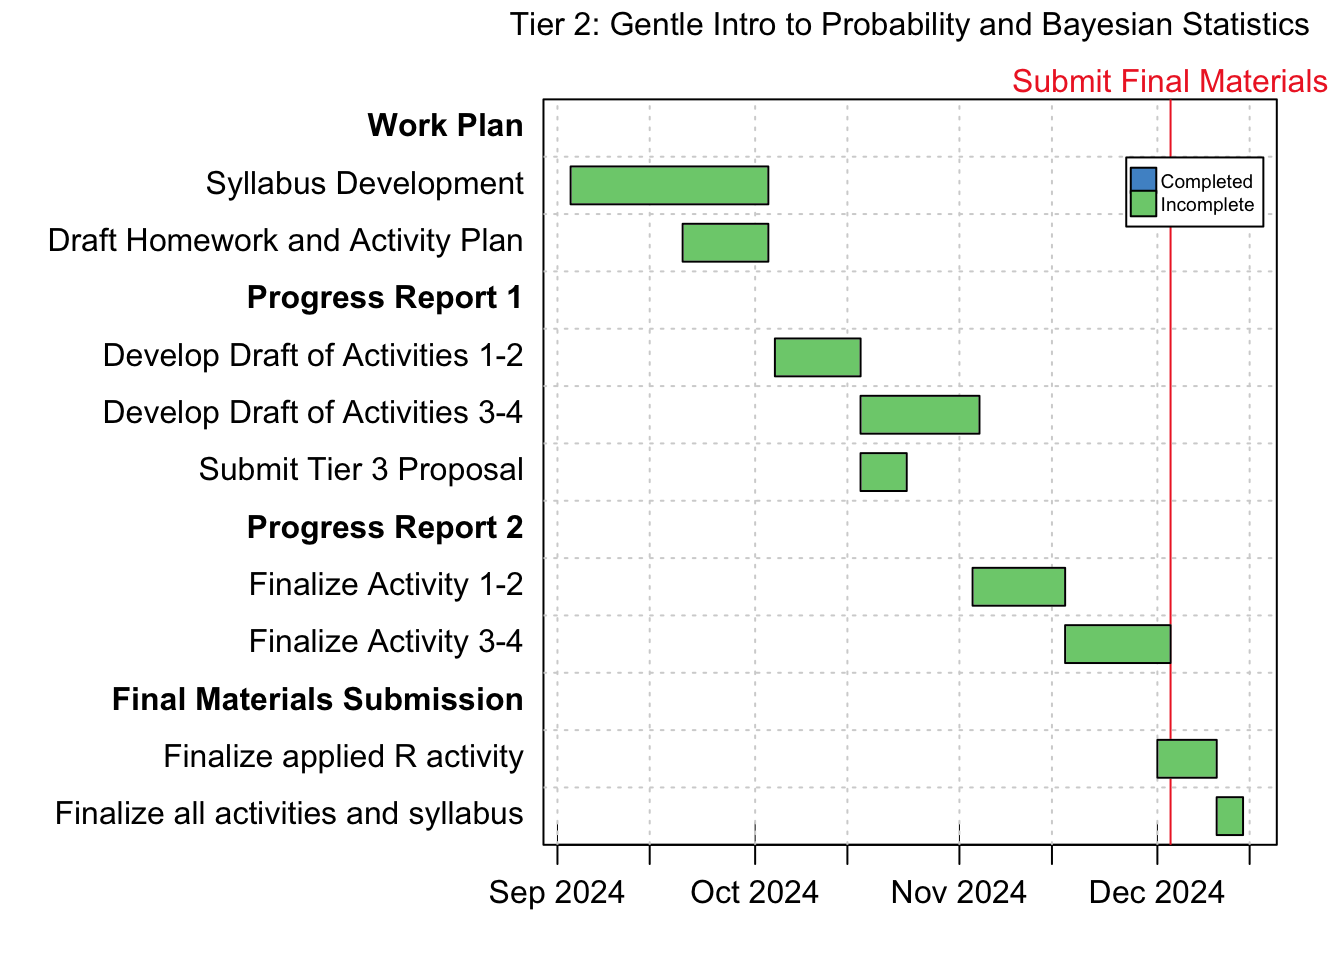
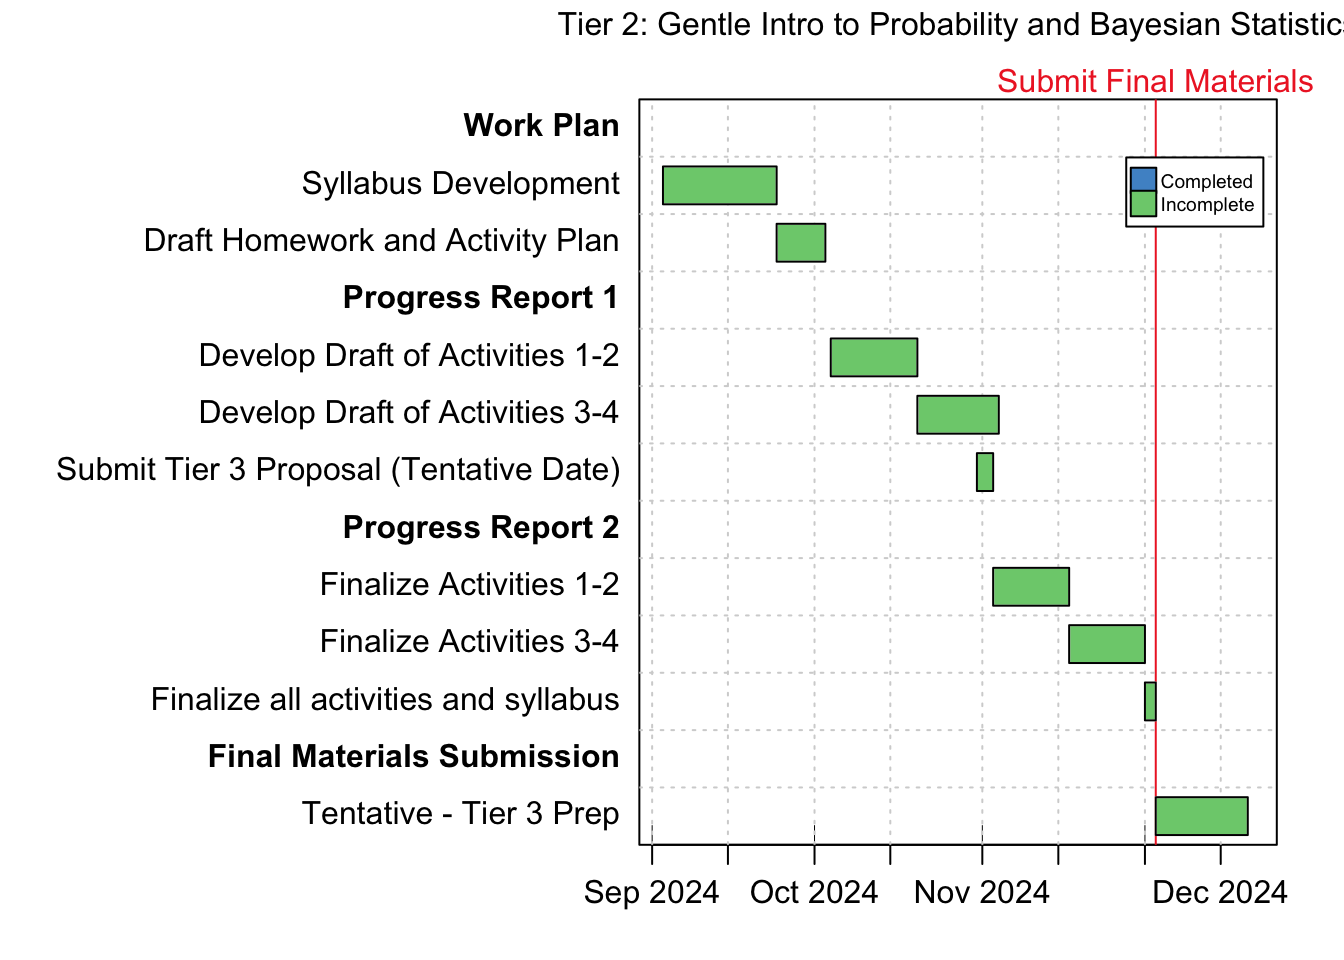
Add work plan incorporating brainstorms from Jim and I's google doc

diff --git a/work-plan/work-plan.html b/work-plan/work-plan.html
@@ -74,10 +74,43 @@ ul.task-list li input[type="checkbox"] {
 
 <section id="overview" class="level2">
 <h2 class="anchored" data-anchor-id="overview">Overview</h2>
+<p>The aim of this project is to develop a 2-credit Gentle Introduction to Probability and Bayesian statistics course open to students across disciplines that can be taught either over the course of a semester (half of a normal course) or it could be taught during the short-term at a college (e.g.&nbsp;Bates, Colby, and Middlebury).</p>
+<p>The students should be prepared to learn and code in R but the course would assume no prerequisites for probability and statistics. The idea behind the course is to expose students across disciplines to Bayesian Thinking who might be otherwise hesitant to sign up for a Bayesian course.</p>
+<p>As part of the course we will design the syllabus to spend more time at the beginning exposing students to probability concepts and it would finish with introducing MCMC algorithms. We propose to cover the following topics: * Overview; Setting up your computer + intro to R * Obtaining data + basic definitions: parameter, statistic, population, sample, inference, estimation * Probability, random variables, rules of probability, conditional probability, Bayes rule * Discrete distributions + pmf + Exp/Var: -Bernoulli, binomial, Poisson * Likelihood + examples * Posterior = Prior * Likelihood + examples * A single proportion: Beta/Binomial * Continuous distribution + pdf + Exp/Var: Normal, exponential, gamma, beta. * A single mean (known sigma): Normal/Normal * A single mean and sigma: Normal/Gamma * MCMC/Gibbs</p>
+<p>Given our backgrounds in ecology (Laurie) and epidemiology (Laurie and Jim) we will look to complement the existing course materials from Bayes Rules and Probability and Bayesian modeling to include examples and assignments from these fields. We will develop the exercises in R and host the course materials on Github and make them available for others to re-use.</p>
 </section>
-<section id="updated-gantt-chart" class="level2">
-<h2 class="anchored" data-anchor-id="updated-gantt-chart">Updated Gantt Chart</h2>
-<p>Draft work plan</p>
+<section id="goals" class="level2">
+<h2 class="anchored" data-anchor-id="goals">Goals</h2>
+<p>We have split our project into three phases:</p>
+<section id="syllabus-development" class="level3">
+<h3 class="anchored" data-anchor-id="syllabus-development">Syllabus Development</h3>
+<p>We will start by drafting a needs analysis for students entering the course. We will then review existing resources for texts, slide decks, homeworks, and labs that might be suitable for our course.</p>
+<p>Specifically we have identified the following tasks:</p>
+<ul>
+<li>Determine software for course (RStudio, webR for materials)?</li>
+<li>Determine books/resources that we’ll use (for us and/or students)</li>
+<li>Draft a needs analysis (what background are students coming into the course with)</li>
+<li>Outline a syllabus, including how the course will be graded and what components we’ll use to determine grades (e.g.&nbsp;assignments, exams, projects, etc.)</li>
+<li>Formally state course objectives and learning outcomes</li>
+<li>Draft a course schedule.</li>
+<li>Finalize topics to be covered.</li>
+<li>Draft Homework and Activity Plan</li>
+</ul>
+</section>
+<section id="activity-and-homework-development" class="level3">
+<h3 class="anchored" data-anchor-id="activity-and-homework-development">Activity and Homework Development</h3>
+<p>We will then focus our efforts on developing hands-on in-class activities, lab and homework assignments and case studies that will complement the existing courses and texts.</p>
+<p>Specifically we have identified the following tasks: - Determine activities for each class - Determine assignments for each class - Develop 4 new activities/assignments - Write codebooks for the datasets used. - Write learning objectives for each activity. - Create a grid mapping the learning objectives across assignments</p>
+</section>
+<section id="finalization-and-submission-of-activities-and-syllabus" class="level3">
+<h3 class="anchored" data-anchor-id="finalization-and-submission-of-activities-and-syllabus">Finalization and Submission of Activities and Syllabus</h3>
+<p>In the final phase we will incorporate feedback and update and publish our final materials (activities and syllabus) in a Github website.</p>
+<p>Specifically we have identified the following tasks: - Update and incorporate feedback into activities - Develop a guide to materials for instructors.</p>
+</section>
+</section>
+<section id="timeline" class="level2">
+<h2 class="anchored" data-anchor-id="timeline">Timeline</h2>
+<p>Work plan</p>
 <div class="cell">
 <div class="cell-output-display">
 <div>
@@ -113,54 +146,48 @@ ul.task-list li input[type="checkbox"] {
 </thead>
 <tbody>
 <tr class="odd">
-<td>2024-09-06</td>
-<td>3:00 - 4:00 pm ET</td>
-<td>Amy</td>
-<td></td>
-</tr>
-<tr class="even">
 <td>2024-09-18</td>
 <td>3:30 - 4:30 pm ET</td>
 <td>Monika</td>
 <td><a href="https://vassar.zoom.us/my/monika76five"><svg aria-hidden="true" role="img" viewbox="0 0 576 512" style="height:1em;width:1.12em;vertical-align:-0.125em;margin-left:auto;margin-right:auto;font-size:inherit;fill:currentColor;overflow:visible;position:relative;"><path d="M0 128C0 92.7 28.7 64 64 64H320c35.3 0 64 28.7 64 64V384c0 35.3-28.7 64-64 64H64c-35.3 0-64-28.7-64-64V128zM559.1 99.8c10.4 5.6 16.9 16.4 16.9 28.2V384c0 11.8-6.5 22.6-16.9 28.2s-23 5-32.9-1.6l-96-64L416 337.1V320 192 174.9l14.2-9.5 96-64c9.8-6.5 22.4-7.2 32.9-1.6z"></path></svg></a></td>
 </tr>
-<tr class="odd">
+<tr class="even">
 <td>2024-09-26</td>
 <td>2:00 - 3:00 pm ET</td>
 <td>Mine</td>
 <td><a href="https://uci.zoom.us/j/91799232149"><svg aria-hidden="true" role="img" viewbox="0 0 576 512" style="height:1em;width:1.12em;vertical-align:-0.125em;margin-left:auto;margin-right:auto;font-size:inherit;fill:currentColor;overflow:visible;position:relative;"><path d="M0 128C0 92.7 28.7 64 64 64H320c35.3 0 64 28.7 64 64V384c0 35.3-28.7 64-64 64H64c-35.3 0-64-28.7-64-64V128zM559.1 99.8c10.4 5.6 16.9 16.4 16.9 28.2V384c0 11.8-6.5 22.6-16.9 28.2s-23 5-32.9-1.6l-96-64L416 337.1V320 192 174.9l14.2-9.5 96-64c9.8-6.5 22.4-7.2 32.9-1.6z"></path></svg></a></td>
 </tr>
-<tr class="even">
+<tr class="odd">
 <td>2024-10-07</td>
 <td>3:30 - 4:30 pm ET</td>
 <td>Monika</td>
 <td><a href="https://vassar.zoom.us/my/monika76five"><svg aria-hidden="true" role="img" viewbox="0 0 576 512" style="height:1em;width:1.12em;vertical-align:-0.125em;margin-left:auto;margin-right:auto;font-size:inherit;fill:currentColor;overflow:visible;position:relative;"><path d="M0 128C0 92.7 28.7 64 64 64H320c35.3 0 64 28.7 64 64V384c0 35.3-28.7 64-64 64H64c-35.3 0-64-28.7-64-64V128zM559.1 99.8c10.4 5.6 16.9 16.4 16.9 28.2V384c0 11.8-6.5 22.6-16.9 28.2s-23 5-32.9-1.6l-96-64L416 337.1V320 192 174.9l14.2-9.5 96-64c9.8-6.5 22.4-7.2 32.9-1.6z"></path></svg></a></td>
 </tr>
-<tr class="odd">
+<tr class="even">
 <td>2024-10-15</td>
 <td>3:00 - 4:00 pm ET</td>
 <td>Amy</td>
 <td></td>
 </tr>
-<tr class="even">
+<tr class="odd">
 <td>2024-10-2?</td>
 <td></td>
 <td>Mine</td>
 <td></td>
 </tr>
-<tr class="odd">
+<tr class="even">
 <td>2024-11-0?</td>
 <td></td>
 <td>Mine</td>
 <td></td>
 </tr>
-<tr class="even">
+<tr class="odd">
 <td>2024-11-12</td>
 <td>3:00 - 4:00 pm ET</td>
 <td>Amy</td>
 <td></td>
 </tr>
-<tr class="odd">
+<tr class="even">
 <td>2023-11-20</td>
 <td>3:30 - 4:30 pm ET</td>
 <td>Monika</td>
